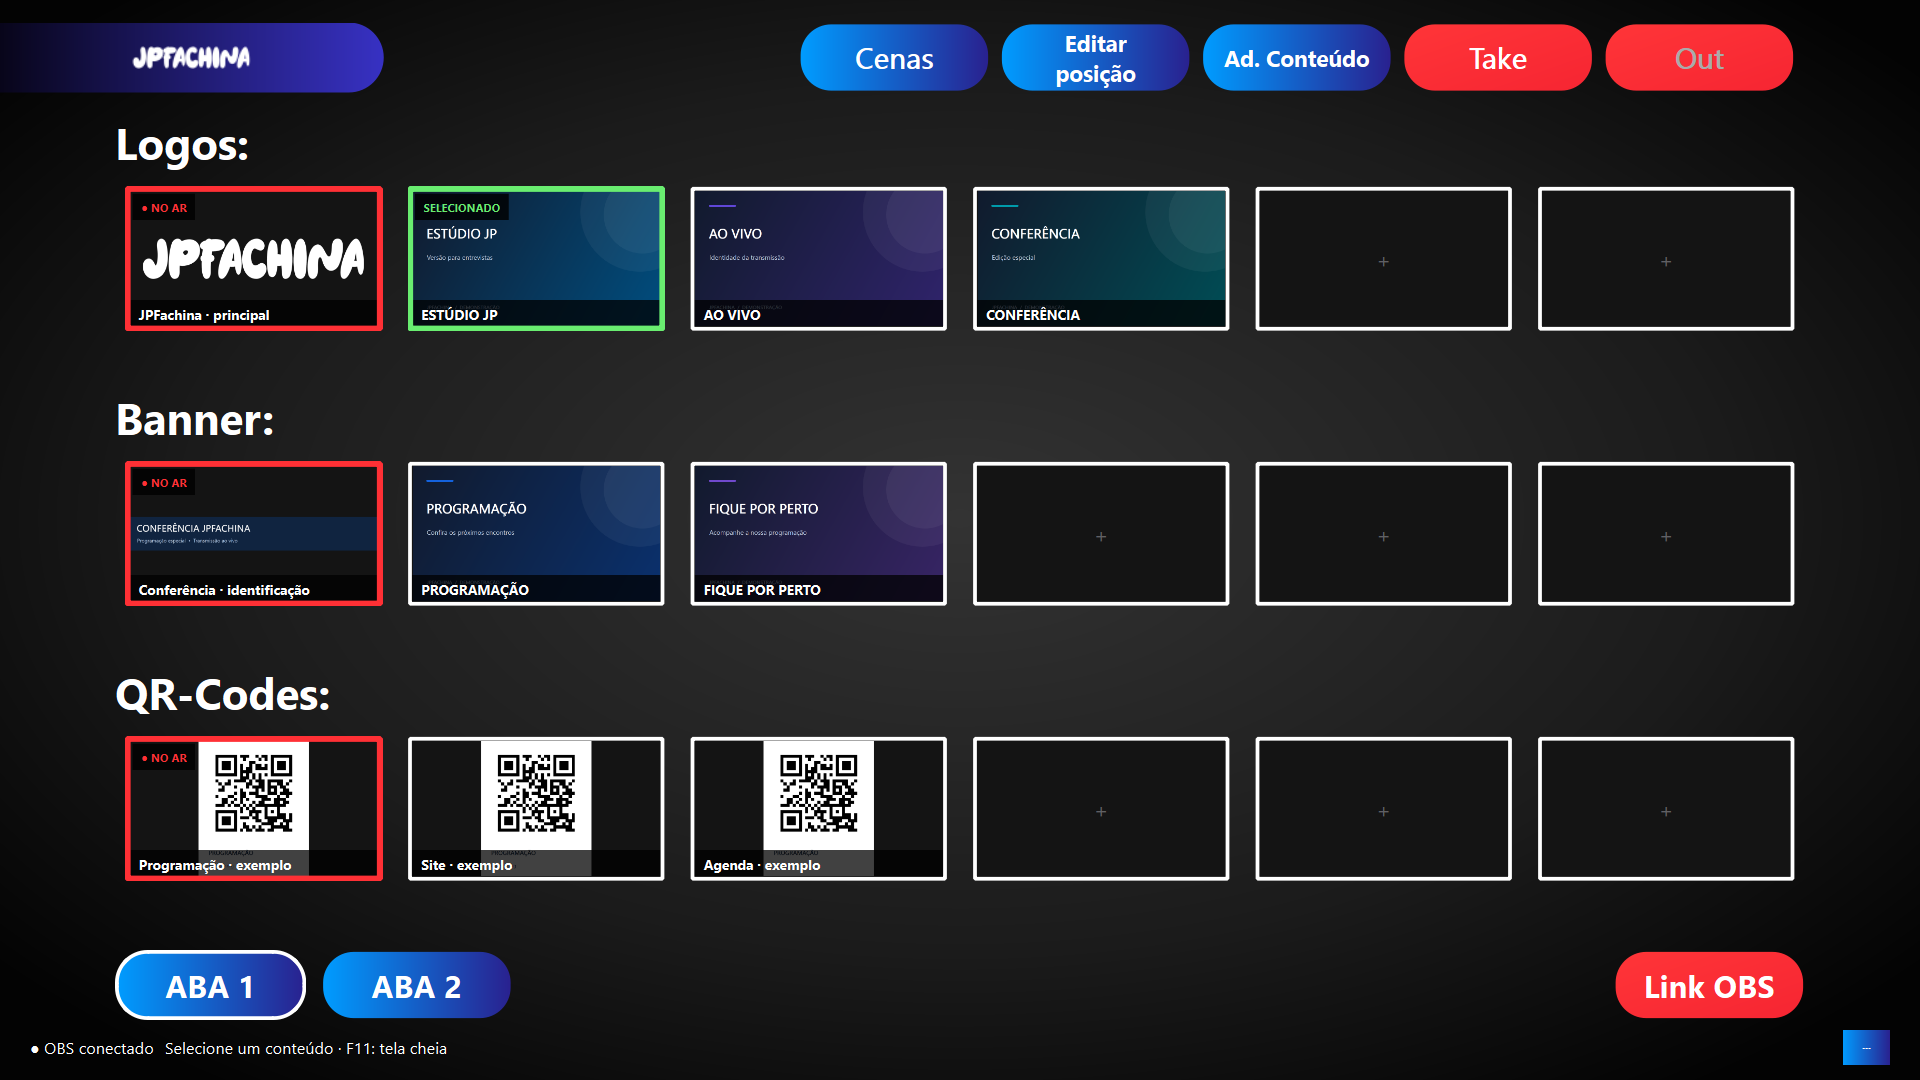
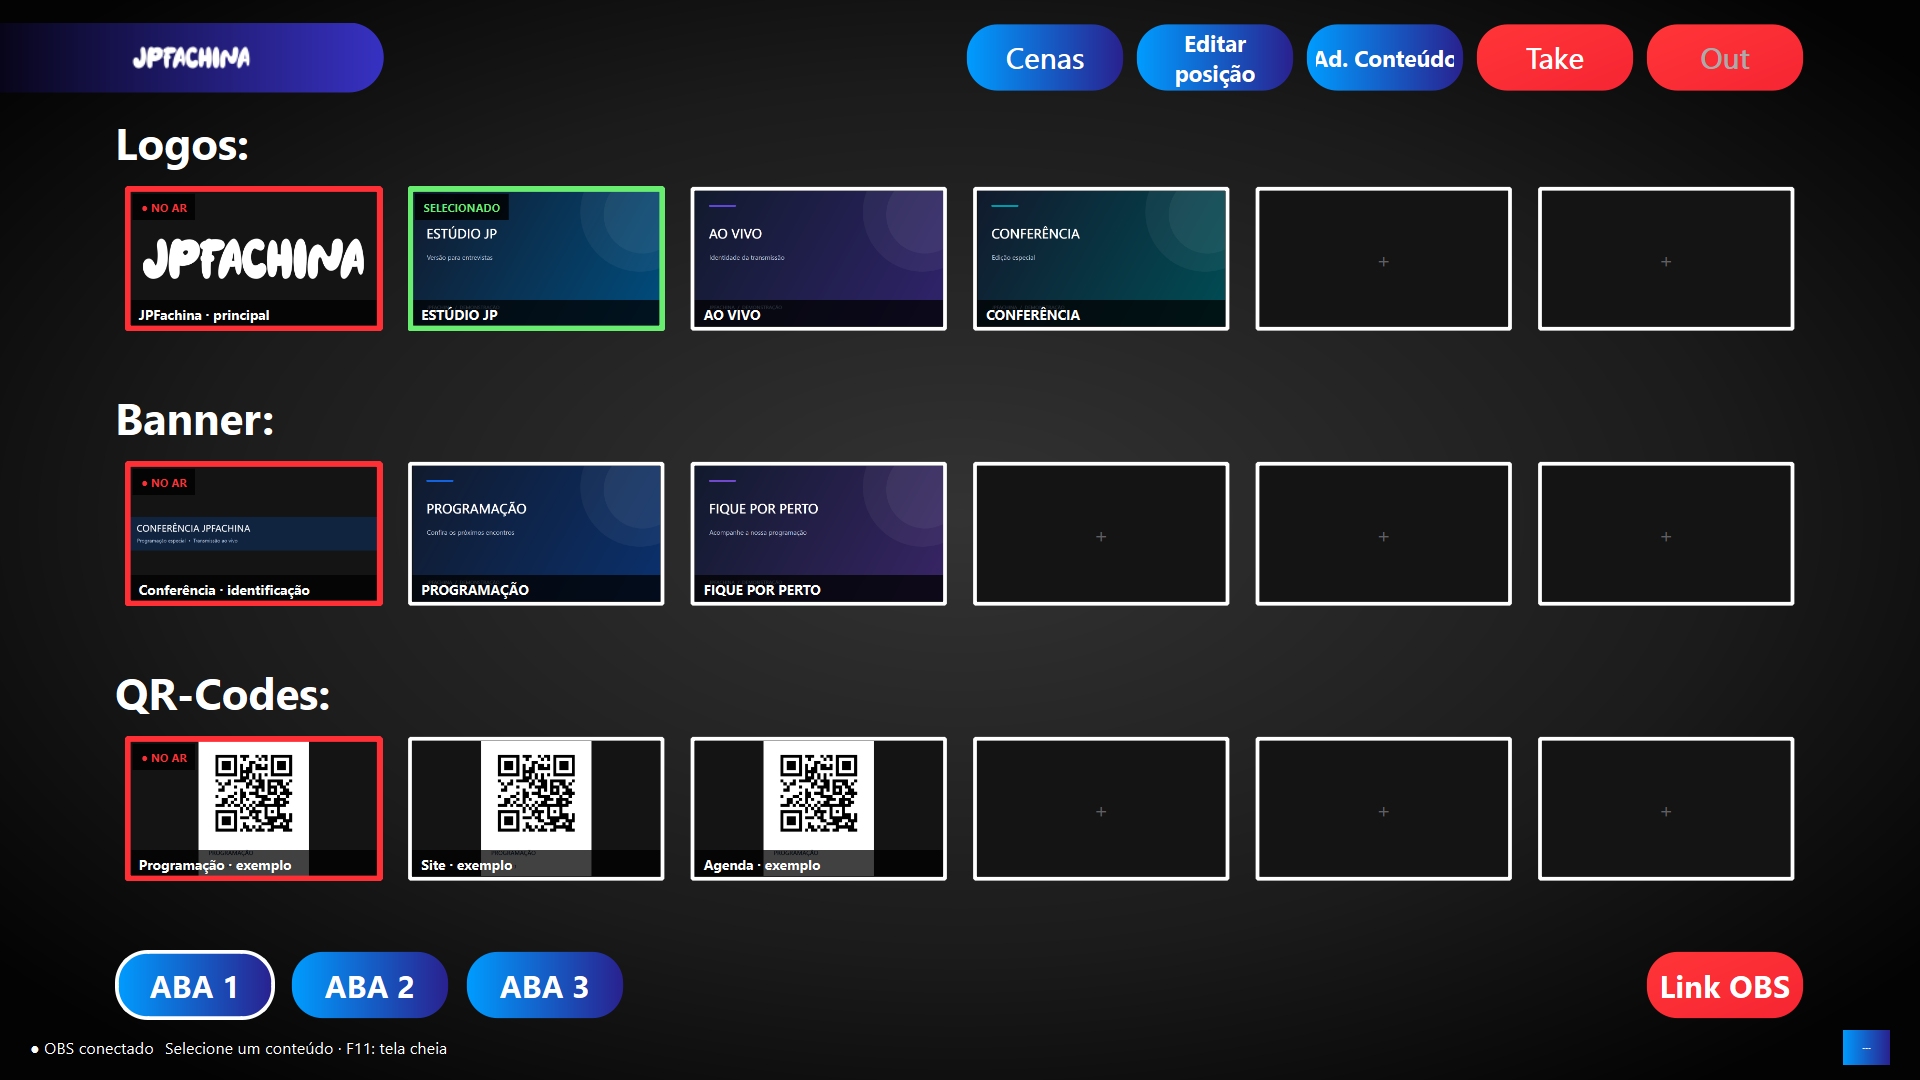
Adiciona captura real da Aba 3

Changed region(s): [[0.4062, 0.0, 0.9375, 0.0917], [0.0625, 0.8556, 0.3438, 0.9472], [0.8438, 0.8861, 0.9375, 0.9472]]

diff --git a/tools/gallery.cpp b/tools/gallery.cpp
@@ -70,11 +70,17 @@ int main(int argc,char **argv){
         require(screenshot(scene).save(output+"/03-saida-obs.png"),"Could not save real program frame");
         jp::OperatorPanel panel(controller);panel.setAttribute(Qt::WA_DontShowOnScreen);panel.resize(1536,864);panel.show();controller.select(selected);settle(600);
         require(panel.grab().save(output+"/01-painel-aba1.png"),"Could not capture tab one");
+        // Capture the real third tab with a populated match, rather than a mockup.
+        auto boards=store.scoreboards();require(!boards.isEmpty(),"No scoreboard templates available");
+        const auto boardId=store.selectScoreboard(project,boards.first().toObject()["id"].toString());controller.select(boardId);
+        store.scoreboardData(project,{{"team1.name","JPFACHINA"},{"team1.shortName","JPF"},{"team1.score","2"},{"team1.color","#3b187c"},{"team2.name","CONVIDADOS"},{"team2.shortName","CONV"},{"team2.score","1"},{"team2.color","#438f27"},{"clockSeconds",3725},{"clockRunning",false},{"match.period","2º Tempo"},{"match.extraTime","+3"}});
+        panel.findChild<QPushButton*>("jpTab3")->click();settle(500);
+        require(panel.grab().save(output+"/07-painel-aba3-scoreboard.png"),"Could not capture tab three");
         auto dialog=[&](const char *button,const char *name,const QString &file,bool sceneTab=false){bool saved=false;QTimer::singleShot(450,&panel,[&]{auto *widget=panel.findChild<QDialog*>(name);if(!widget){QApplication::closeAllWindows();return;}if(sceneTab){auto *tabs=widget->findChild<QTabWidget*>();if(tabs)tabs->setCurrentIndex(1);}settle(200);saved=widget->grab().save(output+"/"+file);widget->reject();});auto *action=panel.findChild<QPushButton*>(button);require(action,"Missing production UI button");action->click();require(saved,"Could not capture production dialog");};
         dialog("jpScenes","jpProjectsDialog","05-projetos.png");dialog("jpLink","jpLinkDialog","06-link-obs.png",true);
         auto *editor=panel.findChild<jp::PositionDialog*>();require(editor,"Position editor not found");editor->openCategory("QR-Codes");settle(500);require(editor->grab().save(output+"/04-editor-posicao.png"),"Could not capture position editor");editor->reject();
         panel.findChild<QPushButton*>("jpTab2")->click();controller.select(videos.first());controller.take();require(waitFor([&]{return controller.onAir(videos.first());}),"Video not rendered");const auto thumbnail=screenshot(source).scaled(640,360,Qt::KeepAspectRatio,Qt::SmoothTransformation);QByteArray bytes;QBuffer buffer(&bytes);buffer.open(QIODevice::WriteOnly);thumbnail.save(&buffer,"PNG");for(const auto &id:videos)store.saveThumbnail(project,id,bytes);controller.select(videos[1]);settle(500);require(panel.grab().save(output+"/02-painel-aba2.png"),"Could not capture tab two");
         store.clearLive(project);require(waitFor([&]{return controller.confirmed.isEmpty();}),"Demo output did not clear");inspector.close();controller.link(false);
-        QTextStream(stdout)<<"PASS six real Qt/OBS screenshots; isolated data, confirmed tally and video playback.\n";return 0;
+        QTextStream(stdout)<<"PASS seven real Qt/OBS screenshots; isolated data, confirmed tally, scoreboard and video playback.\n";return 0;
     }catch(const std::exception &error){QTextStream(stderr)<<"Gallery: "<<error.what()<<"\n";return 1;}
 }

diff --git a/docs/SCREENSHOTS.md b/docs/SCREENSHOTS.md
@@ -13,6 +13,10 @@ O QR-Code da demonstração aponta para https://example.org.
 
 ![ABA 2 com artes e vídeo de teste em loop](images/02-painel-aba2.png)
 
+## Terceira aba — Scoreboard
+
+![ABA 3 com modelo de placar, times, resultado e cronômetro preenchidos no ambiente de teste](images/07-painel-aba3-scoreboard.png)
+
 ## Saída renderizada
 
 ![Composição real do OBS com o cenário e os grafismos demonstrativos](images/03-saida-obs.png)
